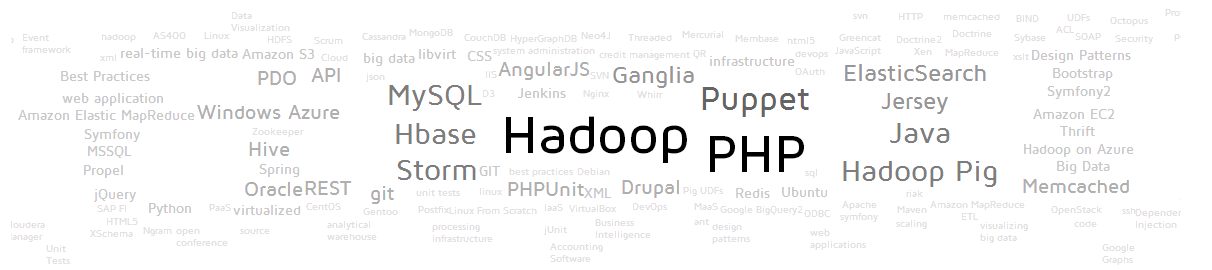
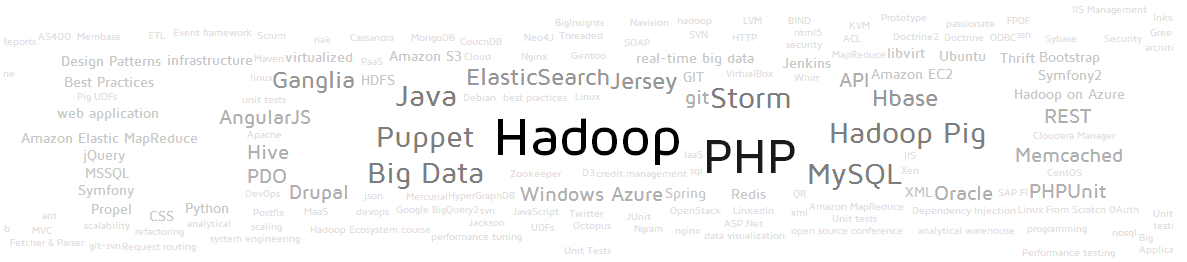
nathan.gs: intro text update

diff --git a/index.html b/index.html
@@ -96,9 +96,9 @@
             </div>
             <div class="row text">
                 <div class="span12">
-                    <p>I am Nathan Bijnens, a developer with a passion for great <em>code</em>, the <em>web</em> and <em>big data</em>. I am interested in <em>programming</em> and <em>system administration</em>, especially where they meet, from <em>scaling</em> platforms to designing the <em>architecture</em> of new and existing products and everything in between.</p>
-                    <p>I am shifting my focus more to <em>data analysis</em> in a big data world, I regularly use <em>Hadoop</em> and <em>Hbase</em>, in combination with <em>Hadoop Pig</em> and <em>Hive</em>. Most of my experience is at the <em>infrastructure</em> side, but I am learning more about <em>Business Intelligence</em> and <em>visualizing big data</em>. I follow the rise of <em>real-time big data</em> closely, actively developing applications on top of <em>Storm</em>.</p>
-                    <p>I have a lot of experience with <em>PHP</em> and related technologies like <em>MySQL</em>, <em>nosql</em>, <em>memcached</em>, <em>nginx</em> and a lot more. I strongly believe in <em>unit tests</em> and <em>design patterns</em>, to write precise and easy maintainable code that works.</p>
+                    <p>I am Nathan Bijnens, a developer with a passion for great <em>code</em>, the <em>web</em> and <em>Big Data</em>. I am interested in <em>programming</em> and <em>system administration</em>, especially where they meet, from <em>scaling</em> platforms to designing the <em>architecture</em> of new and existing products and everything in between.</p>
+                    <p>I am focused on <em>data analysis</em> and building <em>Big Data Applications</em>. I regularly use <em>Hadoop</em>, in combination with <em>Hadoop Pig</em> and <em>Hive</em>. Most of my experience is at the <em>infrastructure</em> side, but I am learning more about <em>Business Intelligence</em> and <em>visualizing big data</em>. I follow the rise of <em>real-time big data</em> closely, actively developing applications on top of <em>Storm</em>. I advise on <em>Big Data Strategies</em> and evangelise <em>Big Data</em> to clients and at conferences.</p>
+                    <p>I have a lot of experience with <em>PHP</em>, <em>Java</em> and other related technologies like <em>MySQL</em>, <em>nosql</em>, <em>memcached</em>, <em>nginx</em> and a lot more. I strongly believe in <em>unit tests</em> and <em>design patterns</em>, to write precise and easy maintainable code that works.</p>
                     <p>I am a passionate <em>linux</em> system engineer, follower of the <em>devops</em> movement. Using <em>Puppet</em> and <em>Ganglia</em> to automate and monitor deployments.</p>
                     <p>I am <em>inquisitive</em>, I love learning about new things and improving what I know. I am very <em>passionate</em> about what I do, and I have strong <em>analytical</em> skills.</p>
 
@@ -117,7 +117,7 @@
                         <div class="accordion" id="datacrunchers-accordion">
                             <div class="accordion-group">
                                 <div class="accordion-heading" data-toggle="collapse" data-parent="#datacrunchers-accordion" href="#datacrunchers-accordion-collapse0" onclick="track('experience','datacrunchers')">
-                                    <span class="dropdown btn btn-mini"><i class="icon-arrow-down icon-grey"></i></span> As from <span itemprop="startDate" datetime="2012-04-27">April 2012</span> I work for <h4 itemprop="name">DataCrunchers</h4>, as a <h4 itemprop="jobTitle">Hadoop and Big Data Consultant</h4>. DataCrunchers is the leading Belgian consultancy firm around everything big data. I co-develop on our internal <em>Semantic Analysis Engine</em> on top of <em>Storm</em>, I co-presented our <em>Hadoop Ecosystem course</em>, I created a new website using <em>Drupal</em> and I am responsible for our <span>Microsoft</span> big data partnership.
+                                    <span class="dropdown btn btn-mini"><i class="icon-arrow-down icon-grey"></i></span> As from <span itemprop="startDate" datetime="2012-04-27">April 2012</span> I work for <h4 itemprop="name">DataCrunchers</h4>, as a <h4 itemprop="jobTitle">Hadoop and Big Data Consultant</h4>. DataCrunchers is the leading Belgian consultancy firm around everything <em>Big Data</em>. I co-develop on our internal <em>Semantic Analysis Engine</em> on top of <em>Storm</em>, I co-presented our <em>Hadoop Ecosystem course</em>, I created a new website using <em>Drupal</em> and I am responsible for our <span>Microsoft</span> <em>Big Data</em> partnership.
 
                                 </div>
                                 <div id="datacrunchers-accordion-collapse0" class="accordion-body collapse">
@@ -152,6 +152,16 @@
                                                 </div>
                                             </li>
                                             <li itemprop="event" itemscope itemtype="http://schema.org/Event">
+                                                <h5 itemprop="name">IHarvest</h5>
+                                                <p>I co-develop and I am the current lead on the <em>IHarvest</em> project. It is a <em>distributed</em> <em>HTTP</em> <em>Fetcher &amp; Parser</em> on top of <em>Storm</em>, the results are stored on <em>HDFS</em> for more extensive querying using <em>Hadoop</em>.</p>
+                                                <div>
+                                                    <span class="skill btn btn-small disabled">Storm</span>
+                                                    <span class="skill btn btn-small disabled">Java</span>
+                                                    <span class="skill btn btn-small disabled">HDFS</span>
+                                                    <span class="skill btn btn-small disabled">Hadoop</span>
+                                                </div>
+                                            </li>
+                                            <li itemprop="event" itemscope itemtype="http://schema.org/Event">
                                                 <h5 itemprop="name">Semantic Analysis Engine</h5>
                                                 <p>I co-develop on our internal <em>Semantic Analysis Engine</em> on top of <em>Storm</em> and <em>ElasticSearch</em>. The frontend is being written in <em>Jersey</em> &amp; <em>AngularJS</em>.</p>
                                                 <div>
@@ -167,7 +177,7 @@
                                                 <h5 itemprop="name">Microsoft Big Data Partnership</h5>
                                                 <p>Responsible for the contact with Microsoft.</p>
                                                 <div>
-                                                    Speaker at the Microsoft Inspirience Day about Big Data.
+                                                    Speaker at the Microsoft Inspirience Day about <em>Big Data</em>.
                                                 </div>
                                             </li>
                                             <li itemprop="event" itemscope itemtype="http://schema.org/Event">
@@ -221,7 +231,7 @@
 
                     <section itemprop="worksFor" itemscope itemtype="http://schema.org/Organization">
                         <div>
-                            Since <span itemprop="startDate" datetime="2007-03-08">March 2007</span> I am the <h4 itemprop="jobTitle">Consultant, Managing Director and founder</h4> of <h4 itemprop="name">Servs</h4> BVBA; mainly active as an IT consultant in the field of <em>big data</em> & <em>hadoop</em>, <em>web applications</em> (<em>PHP</em>, <em>sql</em>, <em>scalability</em>, <em>best practices</em>, …), <em>devops</em> &amp; <em>linux</em> <em>system administration</em> and hosting applications.
+                            Since <span itemprop="startDate" datetime="2007-03-08">March 2007</span> I am the <h4 itemprop="jobTitle">Consultant, Managing Director and founder</h4> of <h4 itemprop="name">Servs</h4> BVBA; mainly active as an IT consultant in the field of <em>Big Data</em> & <em>hadoop</em>, <em>web applications</em> (<em>PHP</em>, <em>sql</em>, <em>scalability</em>, <em>best practices</em>, …), <em>devops</em> &amp; <em>linux</em> <em>system administration</em> and hosting applications.
                         </div>
                     </section>
 
@@ -465,7 +475,7 @@
             <div class="row">
                 <div class="span6">
                     <section>
-                        <div>In recent times I have become very interested by the processing and storage of <h4>big data</h4>. I read as much as I can about <em>Hadoop</em>, <em>MapReduce</em> and I'm learning <em>Java</em> in the process. I program in <em>Hadoop Pig</em> Latin and write queries in <em>Hive</em> regularly.  Also the setup and administration of a <em>Hadoop</em> & <em>Hbase</em> cluster interests me a lot.</div>
+                        <div>In recent times I have become very interested by the processing and storage of <h4>Big Data</h4>. I read as much as I can about <em>Hadoop</em>, <em>MapReduce</em> and I'm learning <em>Java</em> in the process. I program in <em>Hadoop Pig</em> Latin and write queries in <em>Hive</em> regularly.  Also the setup and administration of a <em>Hadoop</em> & <em>Hbase</em> cluster interests me a lot.</div>
                         <div>
                             Some <em>Hadoop</em> &amp; <em>Big Data</em> related skills:
                             <ul>
